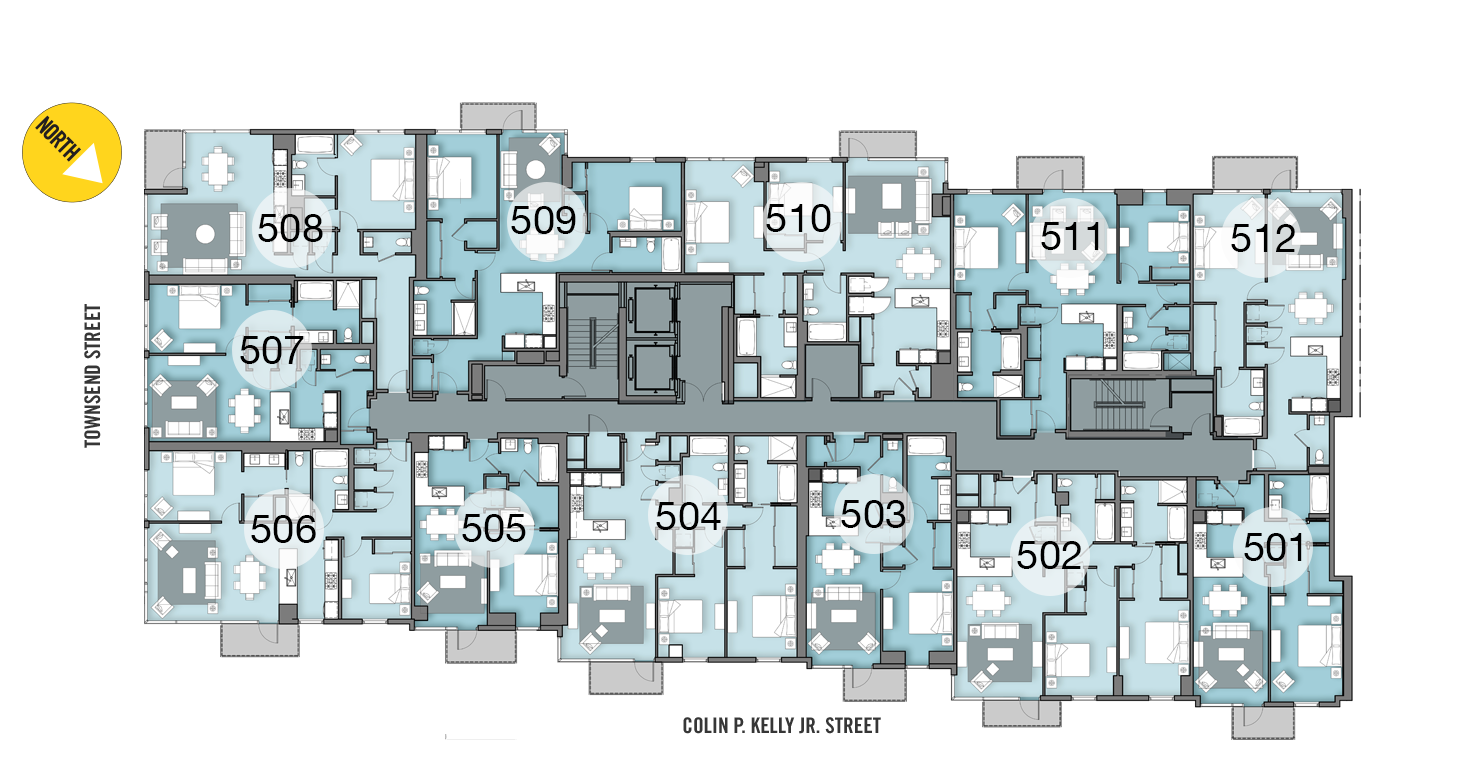
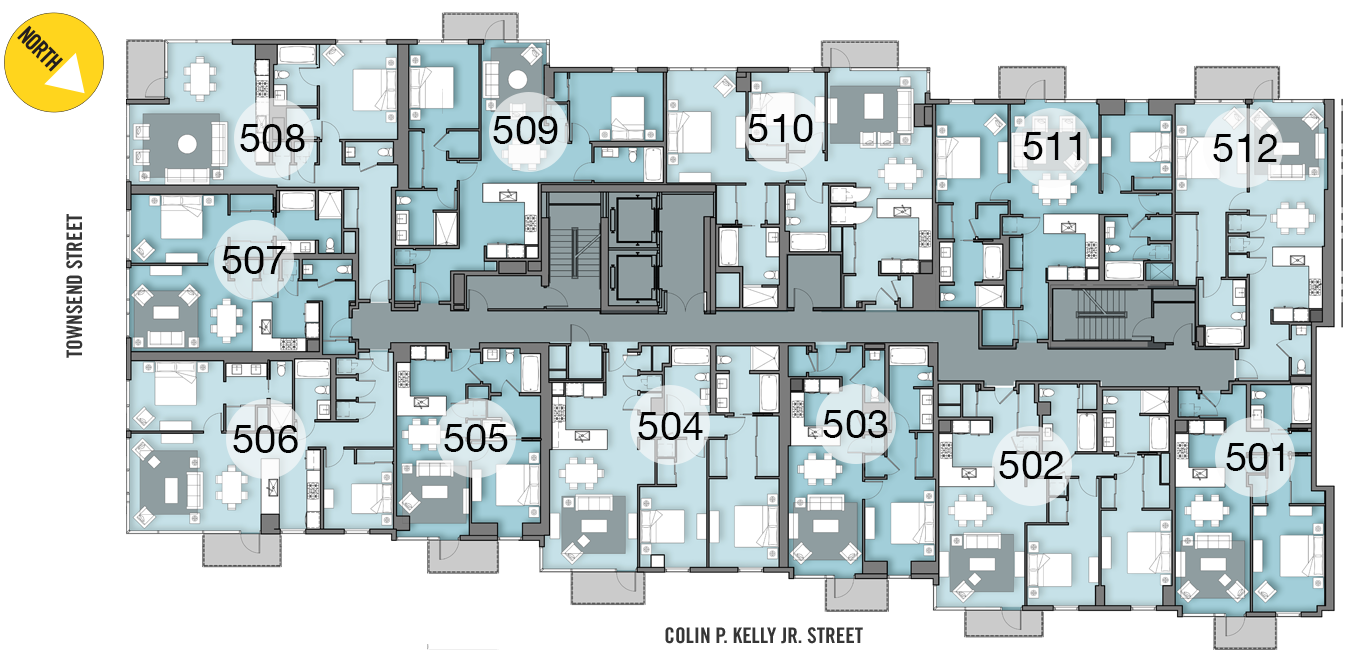
added floor

diff --git a/app/views/floor.html b/app/views/floor.html
@@ -1,0 +1,89 @@
+<div class="row hidden-xs" style="background-color:white;margin-top:100px" ng-hide="floorHidden">
+    <div class="col-md-12 col-lg-12 hidden-xs" style="position:relative">
+
+            <div class="row" style="margin-bottom:10px">
+                <div class="col-md-5"></div>
+                <div class="col-md-2">
+                    <br>
+                    <br>
+                    <br>
+                    <button class="btn btn-default floor-top-button hidden-xs" >
+                    Floor 5 
+                    <i class="fa fa-angle-down"></i>
+                    </button>
+                </div>
+                <div class="col-md-5"></div>
+            </div>
+
+            <div class="row">
+                <div class="col-md-12" style="position:relative">
+                    <img src="images/floor_north.png" class="floor-main hidden-xs">
+                    <div class="image-overlay" style="top:14%;left:21%" ng-click="displayUnit(508)">
+                        <!-- ng-click function that takes you to apartment by unit number -->
+                        <!-- do a controller $filter for the unit number -->
+                    </div>
+                     <div class="image-overlay" style="top:13%;left:36%" ng-click="displayUnit(509)"></div>
+                </div>
+            </div>
+              
+    </div>
+</div>
+
+<!-- desktop unit -->
+ <div class="container" ng-show="floorHidden">
+    <div class="row unit-wrapper" class="hidden-xs">
+        <div class="col-md-1 text-center hidden-xs">
+                
+        </div>
+        <div class="col-md-3 text-center hidden-xs">
+            <h1 style="color:white;font-size:23px">Unit {{unit.unit}}<br> Plan {{unit.planId}}</h1>
+            <div class="yellow-border">
+                <h2>{{unit.interiorSqFt}} SQ. FT</h2>
+                <hr>
+                <h2>BEDROOMS<br> {{unit.bedrooms}}</h2>
+                <hr>
+                <h2>FULL BATHS<br> {{unit.baths}}</h2>
+                <hr>
+                <h2>GOURMET KITCHEN WITH PENINSULA</h2>
+                <hr>
+                <h2>SPACIOUS GREAT ROOM WITH PENINSULA</h2>
+                <hr>
+                <button class="btn btn-default balcony-button" class="balcony-button">BALCONY VIEW
+                    <i class="fa fa-camera"></i>
+                </button>
+            </div>
+            <br>
+        </div>
+
+        <div class="col-md-8 hidden-xs" style="position:relative;width:700px">
+            <div class="row">
+                    <div class="col-md-2">    
+                         <button class="btn btn-default balcony-button" ng-click="floorHidden = !floorHidden">
+                            <i class="fa fa-chevron-left"></i> BACK TO LIST
+                         </button>   
+                    </div>
+
+                    <div class="col-md-4"></div>     
+
+                    <div class="col-md-6">
+                        <!--  <button class="btn btn-default balcony-button" class="balcony-button" 
+                         ng-click="showPrevious(filteredList, unitIndex)"
+                         ng-disabled="unitIndex === 0">
+                            <i class="fa fa-chevron-left"></i> PREVIOUS 
+                         </button>            
+                
+                          <button class="btn btn-default balcony-button" ng-click="showNext(filteredList, unitIndex)"
+                            ng-disabled="filteredList.length === unitIndex + 1"> NEXT
+                            <i class="fa fa-chevron-right"></i>
+                          </button>  -->
+                     </div> 
+
+                </div>
+            </div>
+
+            <img ng-src="{{unit.planImage}}" style="width:50%">
+
+        </div>
+    </div>
+</div>
+<!-- end desktop unit -->

diff --git a/app/styles/main.scss b/app/styles/main.scss
@@ -217,6 +217,36 @@ hr{
     padding: 11px 20px;
 }
 
+/* Floor Styles */
+
+.floor-main {
+    width: 80%;
+    margin-left: 7%;
+    z-index: 20000000;
+} 
+
+.floor-top-button {
+     @include linear-gradient(top,rgba(253,211,40,1) 0%,rgba(242,199,26,1) 100%);
+    color: #333!important;
+    border-top: 1px solid rgba(225,187,1,0.6);
+    border-right: 1px solid rgba(225,187,1,0.8);
+    border-bottom: 1px solid rgba(225,187,1,0.9);
+    border-left: 1px solid rgba(225,187,1,0.8);
+    font-weight: bold;
+    padding: 11px 77px;
+    text-transform: uppercase;
+    letter-spacing: 2px;
+} 
+
+.image-overlay {
+  width: 70px;
+  height: 70px;
+  background-color: transparent;
+  z-index: 4000000000;
+  position: absolute;
+  cursor: pointer;
+} 
+
 /* End Custom Styles*/
 
 /* Custom Mobile Styles */

diff --git a/app/scripts/controllers/list.js b/app/scripts/controllers/list.js
@@ -1,11 +1,12 @@
 'use strict';
 
 angular.module('72TownsendApp')
-  .controller('ListCtrl', function($rootScope, $scope) {
+  .controller('ListCtrl', function($rootScope, $scope, $filter) {
 
   	//init setting for 'sort by'
   	$scope.sort = "floor";
   	$scope.listHidden = false;
+  	$scope.floorHidden = false;
 
   	$scope.showUnit = function showUnit(filteredItems, index){  		
   		$scope.unitIndex = index;
@@ -1478,5 +1479,12 @@ angular.module('72TownsendApp')
   // }
 ]
 
- 
-  });
+$scope.displayUnit = function displayUnit(num){
+		var unit = $filter('filter')($scope.test, {unit:num})
+ 		$scope.unit = unit[0]
+ 		console.log($scope.unit[0])
+ 		$scope.floorHidden = true;
+}
+
+
+});

diff --git a/app/views/main.html b/app/views/main.html
@@ -22,7 +22,7 @@
                       <ul class="dropdown-menu" role="menu" aria-labelledby="single-button">
                         <li><a href="#">FLOOR 3</a></li>
                         <li><a href="#">FLOOR 4</a></li>
-                        <li><a href="#">FLOOR 5</a></li>
+                        <li><a ui-sref="floor">FLOOR 5</a></li>
                         <li><a href="#">FLOOR 6</a></li>
                         <li><a href="#">FLOOR 7</a></li>
                         <li><a href="#">FLOOR 8</a></li>

diff --git a/app/scripts/app.js b/app/scripts/app.js
@@ -34,6 +34,12 @@ angular
         templateUrl: 'views/list.html',
         controller: 'ListCtrl',
         controllerAs: 'list'
+      })
+      .state('floor', {
+        url: '/floor',
+        templateUrl: 'views/floor.html',
+        controller: 'ListCtrl',
+        controllerAs: 'list'
       });
      
     $urlRouterProvider.otherwise('/');

diff --git a/app/views/list.html b/app/views/list.html
@@ -110,7 +110,7 @@
                 </div>
             </div>
 
-            <img ng-src="{{unit.planImage}}">
+            <img ng-src="{{unit.planImage}}" style="width:50%">
 
         </div>
     </div>
